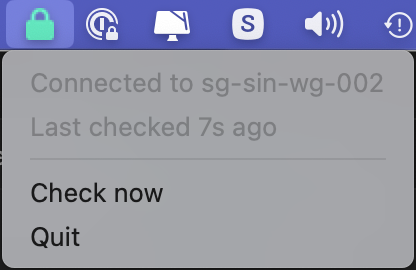
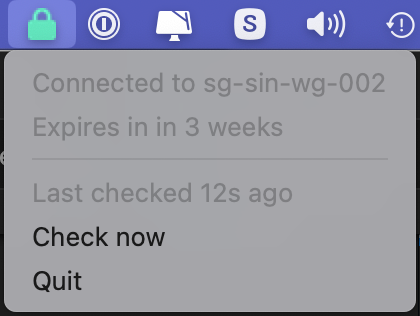
fix to time left check

diff --git a/main.js b/main.js
@@ -1,4 +1,4 @@
-const { app, Tray, Menu, nativeImage, navigator } = require("electron");
+const { app, Tray, Menu, nativeImage } = require("electron");
 const path = require("path");
 const TimeAgo = require("javascript-time-ago");
 const en = require("javascript-time-ago/locale/en");
@@ -22,17 +22,6 @@ let tray,
 let loading = true;
 let isStartup = app.getLoginItemSettings().openAtLogin;
 
-exec(
-  "mullvad account get | sed -n 2p | awk '{print $3}'",
-  (error, stdout, stderr) => {
-    try {
-      accountExpiration = new Date(stdout);
-    } catch {
-      // no-op
-    }
-  }
-);
-
 app.whenReady().then(() => {
   const icon = nativeImage.createFromPath(path.join(__dirname, "loading.png"));
   tray = new Tray(icon);
@@ -40,6 +29,7 @@ app.whenReady().then(() => {
 
   setInterval(setMenu, 1_000);
   check();
+  findExpiration();
 });
 
 const check = async () => {
@@ -75,6 +65,22 @@ const check = async () => {
     loading = false;
     timeout = setTimeout(check, DELAY);
   }
+};
+
+const findExpiration = () => {
+  exec(
+    "/usr/local/bin/mullvad account get | sed -n 2p | awk '{print $3}'",
+    (error, stdout, stderr) => {
+      try {
+        accountExpiration = new Date(stdout);
+        timeAgo.format(accountExpiration);
+      } catch {
+        accountExpiration = null;
+      } finally {
+        setTimeout(findExpiration, 86_400_000);
+      }
+    }
+  );
 };
 
 const myFetch = (url) => {

diff --git a/README.md b/README.md
@@ -4,6 +4,8 @@ A simple tray icon indicator of your Mullvad connection status, with DNS leak ch
 
 I wrote this because I connect to Mullvad on my router and I wanted a simple way to know if the connection is up without going to the website.
 
+If you have the Mullvad app installed, it will also check the time left on your account.
+
 ![Mullvad Checker](./screenshot.png)
 
 ## Development
